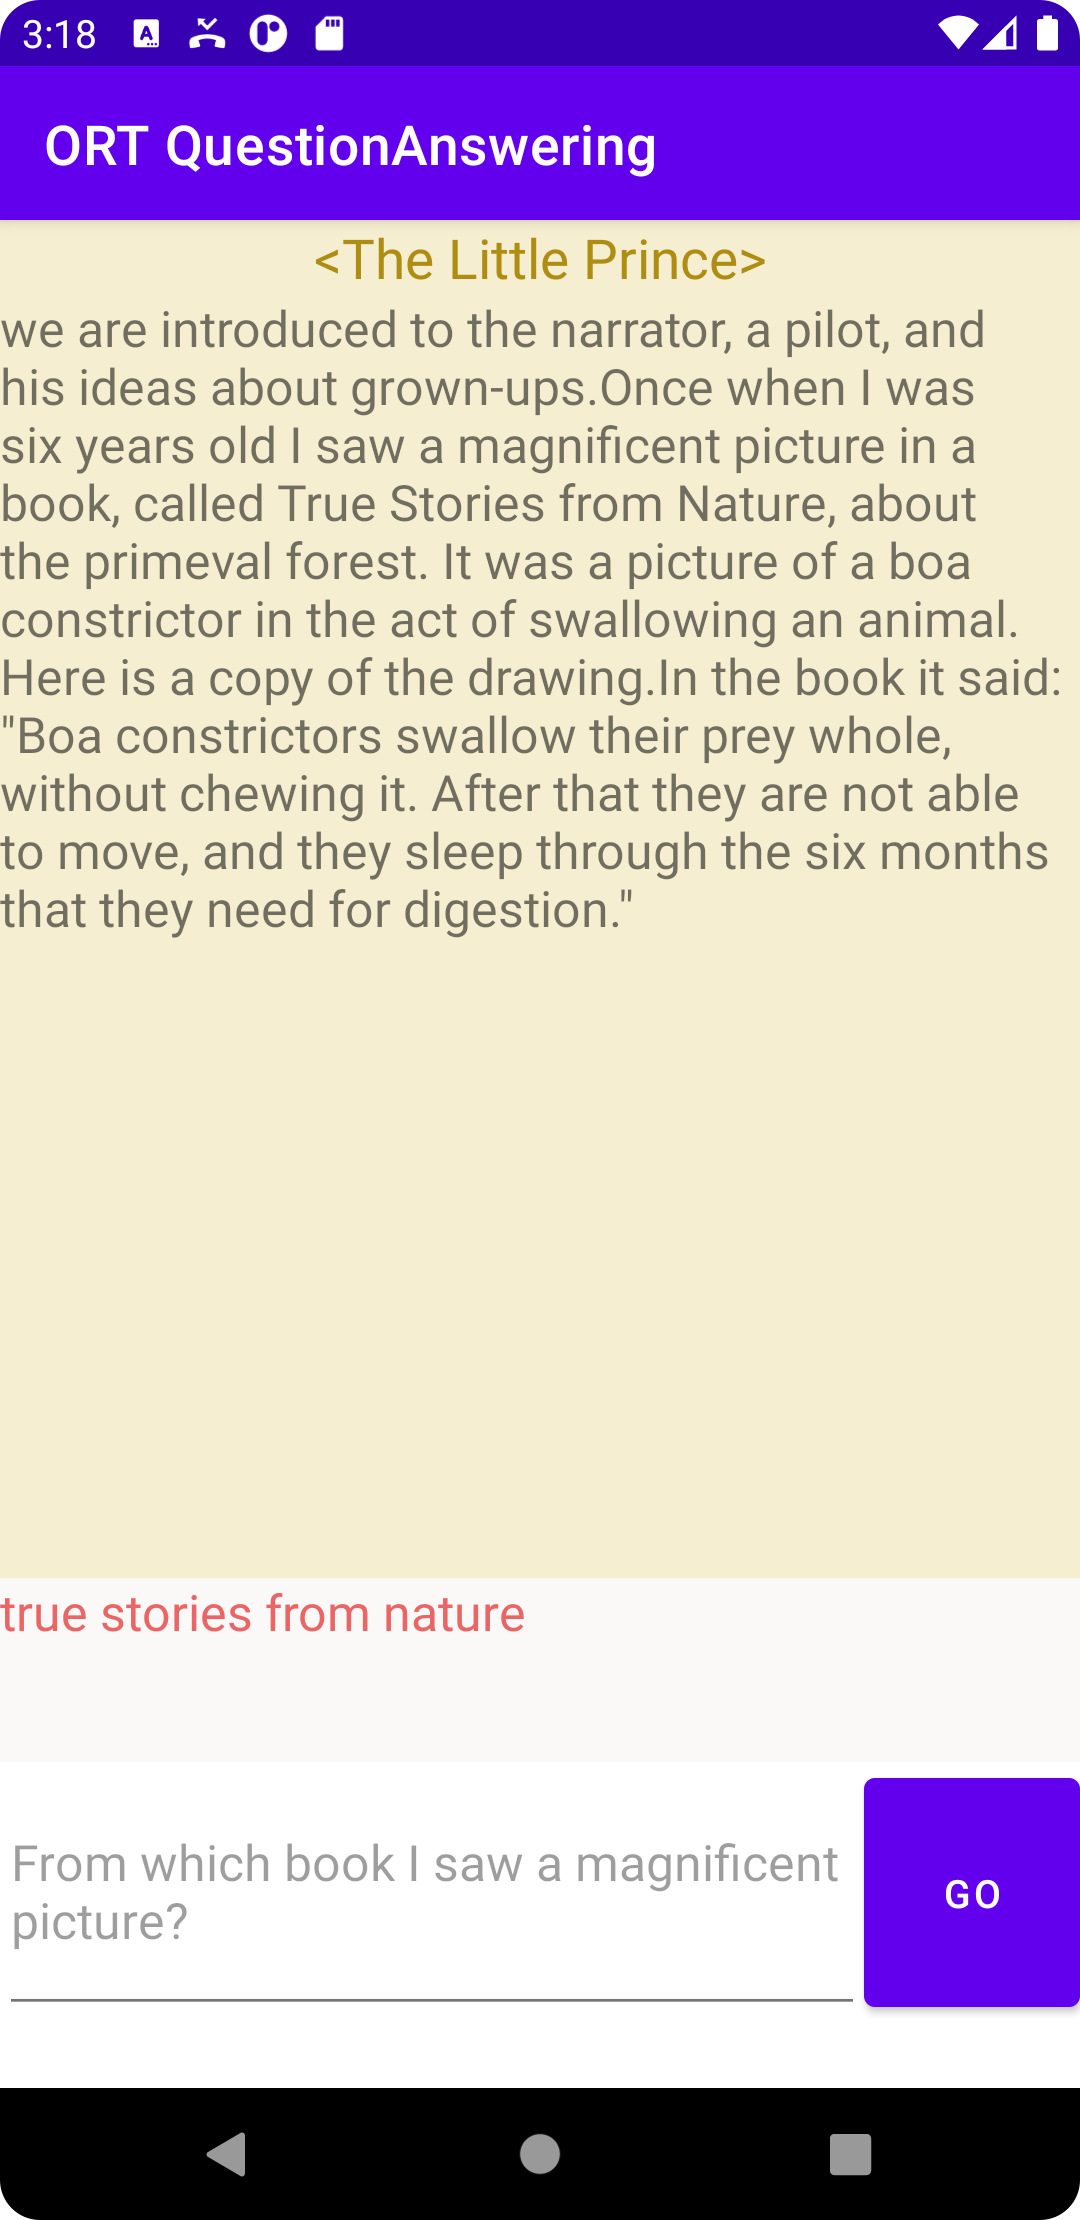
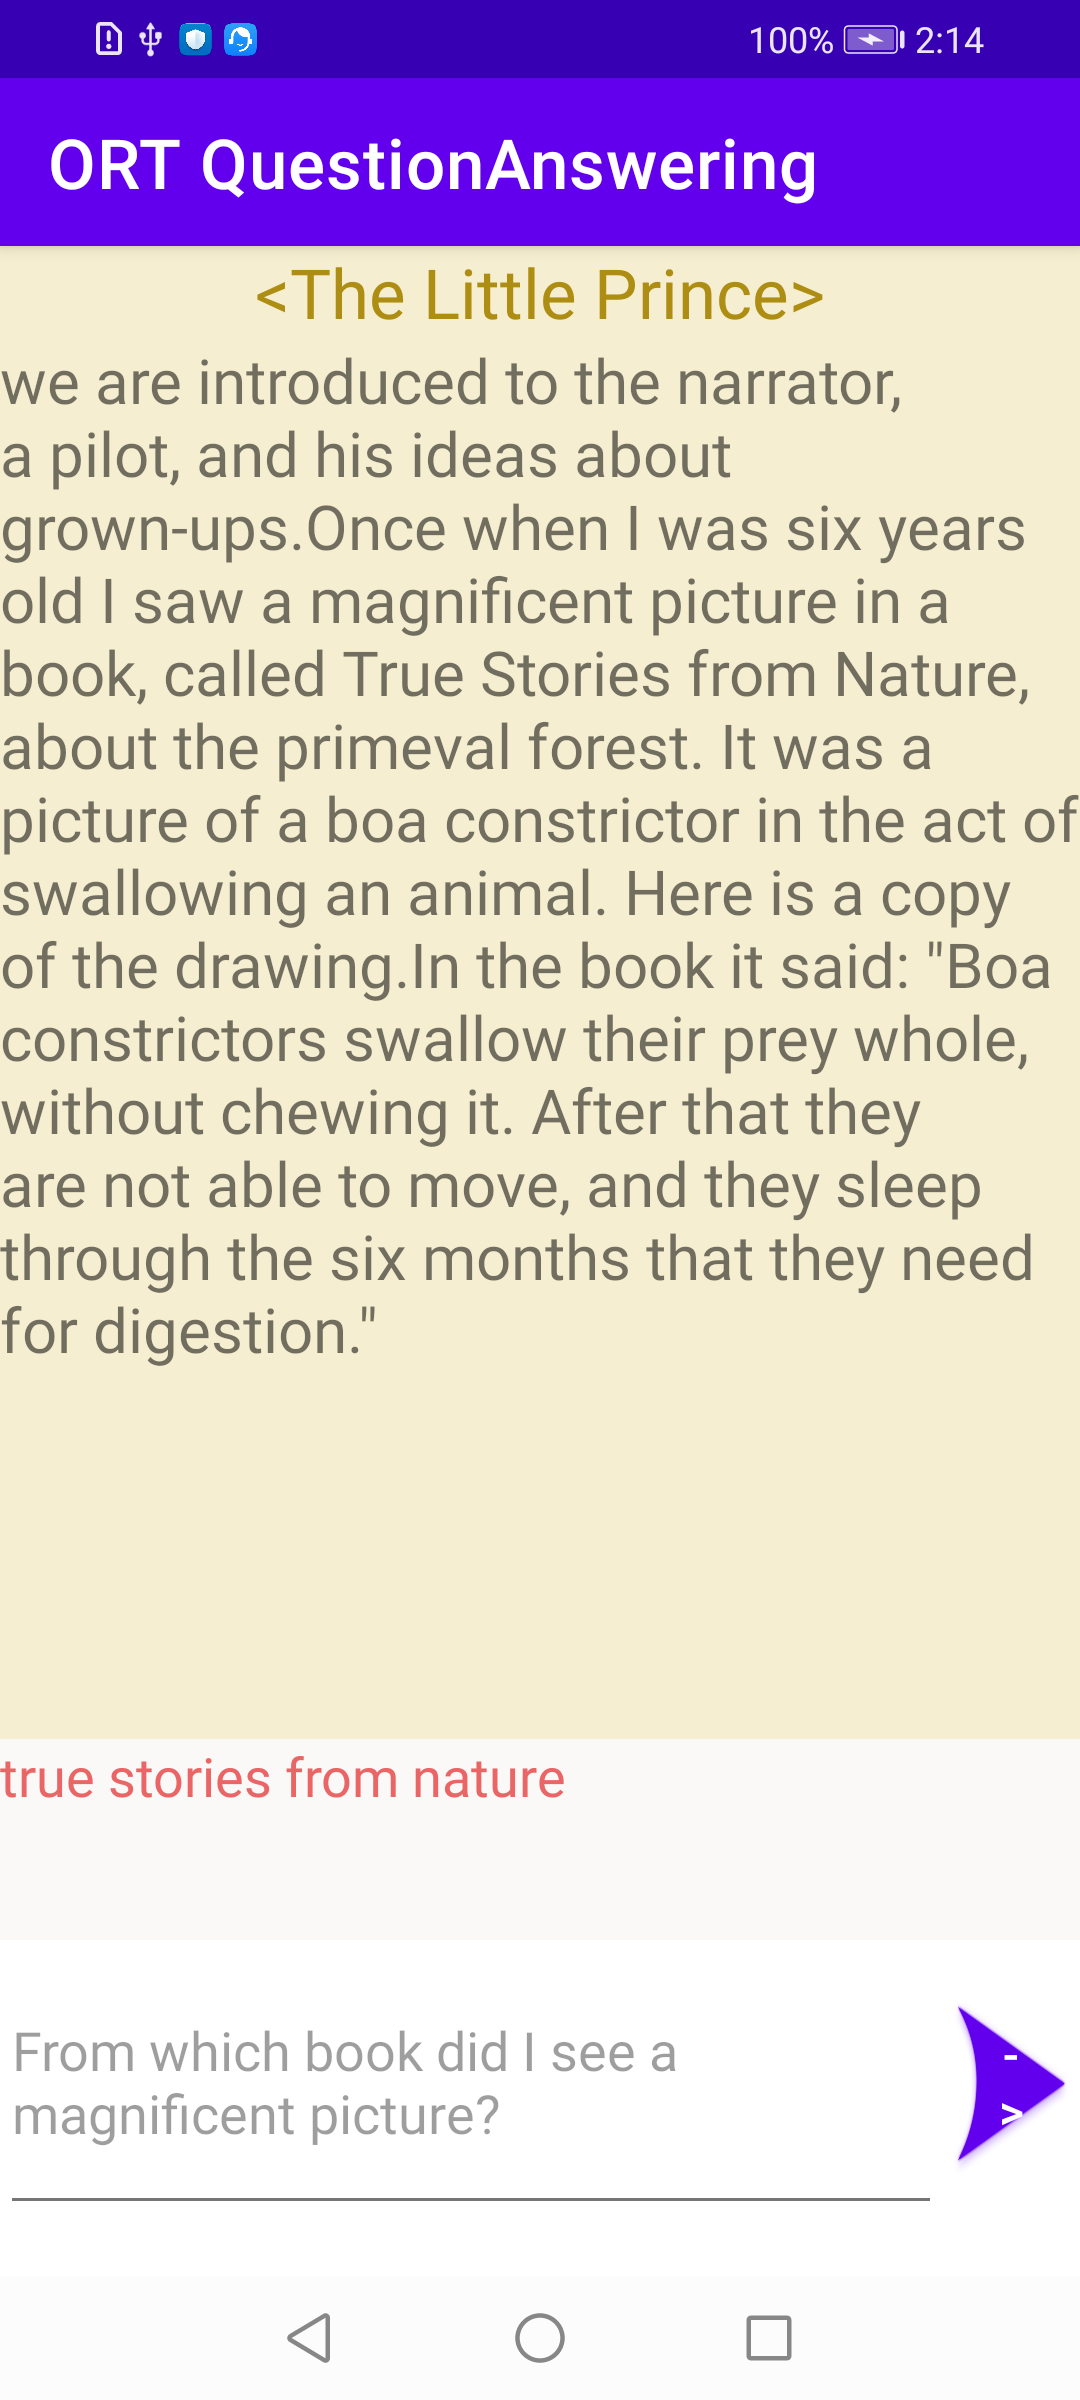
ci

diff --git a/mobile/examples/question_answering/android/app/src/main/java/ai/onnxruntime/example/question_answering/MainActivity.kt b/mobile/examples/question_answering/android/app/src/main/java/ai/onnxruntime/example/question_answering/MainActivity.kt
@@ -46,7 +46,7 @@ class MainActivity : AppCompatActivity() {
                     "without chewing it. After that they are not able to move," +
                     " and they sleep through the six months that they need for digestion.\""
         );
-        QuestionText?.setHint("From which book I saw a magnificent picture?")
+        QuestionText?.setHint("From which book did I see a magnificent picture?")
 
         // Initialize Ort Session and register the onnxruntime extensions package that contains the custom operators.
         // Note: These are used to decode the input image into the format the original model requires,
@@ -88,8 +88,8 @@ class MainActivity : AppCompatActivity() {
     }
 
     private fun readQuestion(): CharSequence {
-        var user_text = QuestionText?.text
-        return if (user_text?.isEmpty() == true) QuestionText?.hint!! else user_text!!
+        var user_text = QuestionText?.text!!
+        return if (user_text.isEmpty() == true) QuestionText?.hint!! else user_text
     }
 
     private fun performQA(ortSession: OrtSession) {

diff --git a/mobile/examples/question_answering/android/README.md b/mobile/examples/question_answering/android/README.md
@@ -26,20 +26,23 @@ Clone this repository to get the sample application.
 
 ### Step 2: Prepare the model and required packages
 
-- The required aar package is under lib's folder `mobile\examples\question_answering\android\app\libs`.
 - The model used is under `mobile\examples\question_answering\android\app\src\main\res\raw`.
 
-Preparing model by running `python prepare_models.py` in the directory. There are four steps. 
+Preparing model by running `python prepare_models.py` in the directory, and the process include four steps.
 1. download model from huggingface. 
 2. convert model to onnx. 
 3. quantize onnx model. 
 4. add pre/post processing to onnx model.
 
+NOTE: Please install onnxruntime-extensions package following [this](https://github.com/microsoft/onnxruntime-extensions) according to your platform.
+
+This script works for both Mac and Linux by default.
+
+```bash
 Model will be placed at `mobile\examples\question_answering\android\app\src\main\res\raw` automatically.
 ```bash
 cd mobile/examples/question_answering/android
-python -m pip install -r ./prepare_models.requirements.txt
-python ./prepare_models.py
+bash prepare_models.sh
 ```
 
 

diff --git a/mobile/README.md b/mobile/README.md
@@ -62,6 +62,6 @@ The example application accomplishes the task of recovering a high resolution (H
 - [iOS Super Resolution](examples/super_resolution/ios)
 
 ### Question Answering
-The example app give a demo of introducing question answering models with pre/post processing into mobile scenario. Currently supports on platform Android.
+The example app gives a demo of introducing question answering models with pre/post processing into mobile scenario. Currently supports on platform Android.
 
 - [Android Question answering](examples/question_answering/android)
